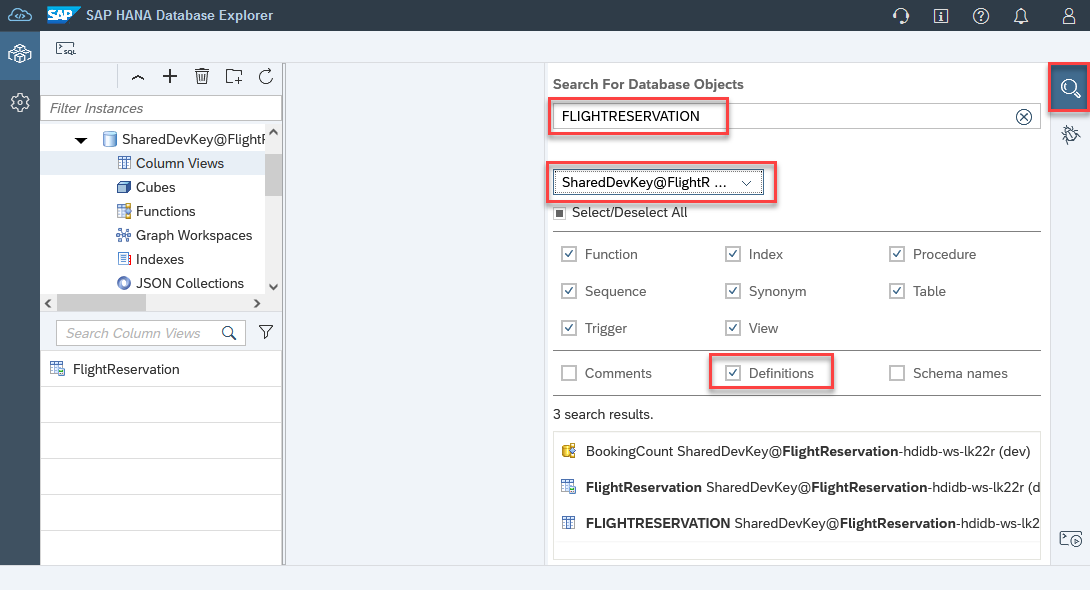
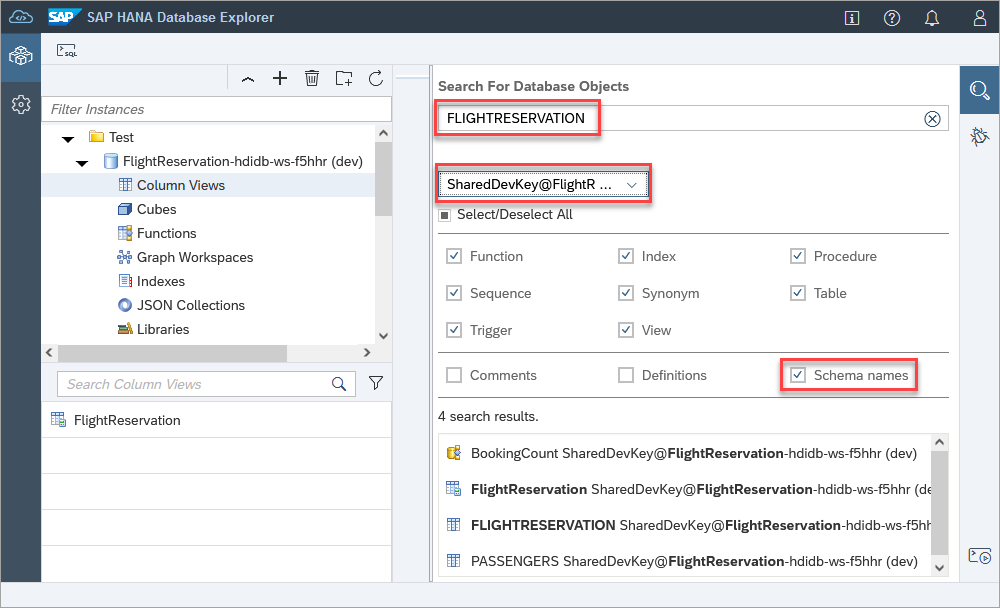
further review udpates

diff --git a/exercises/database_explorer/ex3/README.md b/exercises/database_explorer/ex3/README.md
@@ -1,26 +1,26 @@
 # Exercise 3 - Using the SQL Console
-In this exercise, we will explore some of the functionality in the SAP HANA database explorer's SQL Console. Please repeat the steps shown below.
+In this exercise, we will explore some of the functionality in the SAP HANA database explorer's SQL console. Please repeat the steps shown below.
 
 ## Exercise 3.1 Open a SQL Console
 
-1. A SQL Console can be opened by the context menu of a connection or after selecting a connection and clicking on the SQL Console toolbar icon.  
+1. A SQL console can be opened by the context menu of an instance or after selecting an instance and clicking on the SQL console toolbar icon.  
 
     ![](images/OpenSQLConsole.png)
 
-    Execute the following SQL after pasting it into a newly opened SQL Console that is connected to the FlightReservation HDI container and press the **Run** button.
+    Execute the following SQL after pasting it into a newly opened SQL console that is connected to the FlightReservation HDI container and press the **Run** button.
 
     ```SQL
     SELECT CURRENT_USER, CURRENT_SCHEMA FROM DUMMY;
     SELECT * FROM PUBLIC.M_CONNECTIONS WHERE CONNECTION_ID = CURRENT_CONNECTION;
     ```
 
-    Multiple SQL Console tabs can be opened, or the connection that the SQL Console is attached to can be changed if needed.
+    Multiple SQL console tabs can be opened, or the instance that the SQL console is attached to can be changed if needed.
 
     ![](images/ChangeConnection.png)
 
 ## Exercise 3.2 Autocompletion
 
-1. The SQL Console can autocomplete statements.  Enter the statement below into the SQL Console, position the cursor on the **C** and press **Ctrl + space**.  Select **COUNTRY** to complete the SQL query.
+1. The SQL console can autocomplete statements.  Enter the statement below into the SQL console, position the cursor on the **C** and press **Ctrl + space**.  Select **COUNTRY** to complete the SQL query.
 
     ![](images/AutoComplete.png)
 
@@ -47,7 +47,7 @@ In this exercise, we will explore some of the functionality in the SAP HANA data
 
 ## Exercise 3.4 Statement Help Panel
 
-1. The SQL Console has an optional statement help panel that shows additional details for a SQL statement that is selected by the input indicator.  Enter the statement below into the SQL Console and show the Statement Help panel. 
+1. The SQL console has an optional statement help panel that shows additional details for a SQL statement that is selected by the input indicator.  Enter the statement below into the SQL console and show the Statement Help panel. 
 
     ![](images/StatementHelpPanel.png)
     
@@ -79,7 +79,7 @@ In this exercise, we will explore some of the functionality in the SAP HANA data
 
 ## Exercise 3.7 SQL Console Preferences
 
-1. Examine the SQL Console preferences.  Navigate to the database explorer preferences icon on the left of your screen and select **SQL Console**. Examine the available settings.  
+1. Examine the SQL console preferences.  Navigate to the database explorer preferences icon on the left of your screen and select **SQL Console**. Examine the available settings.  
 
     A few notable settings are:
     * Byte limit for the size of a returned value
@@ -89,7 +89,7 @@ In this exercise, we will explore some of the functionality in the SAP HANA data
    
     ![](images/DBX_Settings.png)
 
-    >If changes are made to this screen, the Save button must be pressed.
+    >If changes are made to this screen, the Save button must be pressed for the changes to be set.
 
  
  2. An example of a query that returns more than 1000 rows is shown below.  The setting Max number of rows to display could be updated to display the full result.
@@ -128,11 +128,11 @@ In this exercise, we will explore some of the functionality in the SAP HANA data
 
 ## Exercise 3.9 Additional SQL Console Tab Features 
 
-1. A SQL Console tab or a sub tab such as Results, or Messages, can enter or exit full screen mode, by double tapping on its tab.  
+1. A SQL console tab or a sub tab such as Results, or Messages, can enter or exit full screen mode, by double tapping on its tab.  
 
     ![](images/FullScreen.png)
 
-2. A context menu is available on SQL Console tabs.  You may wish to provide a more descriptive tab name for a SQL Console.
+2. A context menu is available on SQL console tabs.  You may wish to provide a more descriptive tab name for a SQL console.
 
     ![](images/SQLConsoleContextMenu.png)
 
@@ -160,13 +160,13 @@ In this exercise, we will explore some of the functionality in the SAP HANA data
     
     >Optionally press the refresh button to update the status sooner.
 
-    >Notice that the original SQL Console and the one opened to view the results are both in a disconnected state and would need to be re-connected before executing another statement.
+    >Notice that the original SQL console and the one opened to view the results are both in a disconnected state and would need to be re-connected before executing another statement.
 
     ![](images/ViewBackgroundResults2.png)
 
 ## Exercise 3.11 Run on Multiple Databases
 
-1. SQL statements can also be executed against multiple databases.  Paste in the below SQL into the SQL Console and from the **Run** icon select **Run on Multiple Databases**. 
+1. SQL statements can also be executed against multiple databases.  Paste in the below SQL into the SQL console and from the **Run** icon select **Run on Multiple Databases**. 
 
     ```SQL
     SELECT CURRENT_USER FROM DUMMY;
@@ -204,10 +204,10 @@ In this exercise, we will explore some of the functionality in the SAP HANA data
 
 ## Exercise 3.13 Data Viewers
 
-1. The SQL Console has built in viewers for data of different formats such as HTML, XML, JSON and spatial.  Execute the below SQL, select a value from the results tab and choose **View data**. 
+1. The SQL console has built in viewers for data of different formats such as HTML, XML, JSON and spatial.  Execute the below SQL, select a value from the results tab and choose **View data**. 
 
     ```SQL
-    SELECT'{ "name":"John", "age":30, "cars": { "car1":"Ford", car2":"BMW", car3":"Fiat" }}'
+    SELECT'{ "name":"John", "age":30, "cars": { "car1":"Ford", "car2":"BMW", "car3":"Fiat" }}'
         AS JSON_EXAMPLE FROM DUMMY;
     
     SELECT '<?xml version="1.0" encoding="UTF-8"?>

diff --git a/exercises/multi-environment/ex1/README.md b/exercises/multi-environment/ex1/README.md
@@ -1,6 +1,6 @@
 # Appendix 1 - Multi-Environment SAP HANA Cloud Tools
 
-This appendix will introduce the multi-environment tools which are available as of QRC 3 in the SAP BTP free tier and production environments but not in trial.  Until now, the tooling (SAP HANA cockpit, SAP HANA database explorer, and SAP HANA Cloud Central) have been accessing SAP HANA Cloud through Cloud Foundry.  The SAP BTP provides support for multiple environments such as Cloud Foundry and Kyma.  With the multi-environment tooling, it is no longer necessary to have a Cloud Foundry environment.  This is explained in more detail at [SAP HANA Cloud goes "multi-environment": Part 1- feature overview](https://blogs.sap.com/2022/09/21/sap-hana-cloud-goes-multi-environment-part-1-feature-overview/).
+This appendix will introduce the multi-environment tools which are available as of QRC 3 in the SAP BTP free tier and production environments but not in trial.  Until now, the tooling (SAP HANA cockpit, SAP HANA database explorer, and SAP HANA Cloud Central) have been accessing SAP HANA Cloud through Cloud Foundry.  The SAP BTP provides support for multiple environments such as Cloud Foundry and Kyma.  With the multi-environment tooling, it is no longer necessary to have a Cloud Foundry environment.  This is explained in more detail at [SAP HANA Cloud goes "multi-environment": Part 1- feature overview](https://blogs.sap.com/2022/09/21/sap-hana-cloud-goes-multi-environment-part-1-feature-overview/).  
 
 ## Exercise 1.1 Introducing and Setting up the Multi-Environment Tooling
 
@@ -20,7 +20,7 @@ This appendix will introduce the multi-environment tools which are available as 
 
     ![](images/Tools-Plan.png)
 
-    *Select the tools plan and press create.*
+    *Select the tools plan and press Create.*
 
     ![](images/Role-Collection.png)
 
@@ -34,28 +34,35 @@ This appendix will introduce the multi-environment tools which are available as 
 
     ![](images/Multi-Environemnt-HCC.png)
 
-    *Multi-Environment SAP HANA Cloud Central.*
+    *Multi-Environment edition of SAP HANA Cloud Central.*
 
     ![](images/Cloud-Foundry-HCC.png)
 
-    *Cloud Foundry SAP HANA Cloud Central.*
+    *Previous edition of SAP HANA Cloud Central.*
 
     Some of the differences include:
 
-    * The Cloud Foundry tooling is accessed from the Cloud Foundry space level under the SAP HANA Cloud tab
+    * The previous edition of the tooling is accessed from the Cloud Foundry space level under the SAP HANA Cloud tab
     * The multi-environment tooling is accessed from the SAP BTP sub-account page, under the SAP HANA Cloud subscription
     * The URL used to access the tools is different
-    * The multi-environment version does not have the Cloud Foundry organization and space drop downs
+    * The multi-environment edition does not have the Cloud Foundry organization and space drop downs
     * The multi-environment SAP HANA Cloud Central includes a link that when clicked, displays the subaccount roles assigned to the current user
-    * The Cloud Foundry SAP HANA Cloud Central includes a link that when clicked, displays the Cloud Foundry space roles assigned to the current user
+    * The previous edition of SAP HANA Cloud Central includes a link that when clicked, displays the Cloud Foundry space roles assigned to the current user
     * The multi-environment tooling lists SAP HANA Cloud instances created with either set of the tooling
-    * The Cloud Foundry tooling does not list the SAP HANA Cloud instances created with the multi-environment tooling
-    * Within the SAP HANA database explorer, the Add Instance dialog does not show the Cockpit or
-    * The instance mapping in the multi-environment version provides instance mapping via the action menu item Manage Configuration.  This is demonstrated in the exercise below.
+    * The previous edition of SAP HANA Cloud Central does not list the SAP HANA Cloud instances created with the multi-environment tooling
+    * The multi-environment tooling does not include HDI Containers as an instance type in the Add Instance dialog
+    * The instance mapping in the multi-environment edition provides instance mapping via the action menu item Manage Configuration.  This is demonstrated in the exercise below.
 
 ## Exercise 1.2 Instance Mapping
 
-If you are using the SAP Business Application Studio to deploy native SAP HANA artifacts into an HDI container and have created the SAP HANA instance using the multi-environment tooling, a mapping will need to be created to map the SAP HANA Cloud instance into an existing Cloud Foundry organization and space.
+If you are using the SAP Business Application Studio to deploy native SAP HANA artifacts into an HDI container and have created the SAP HANA instance using the multi-environment tooling, a mapping will need to be created to map the SAP HANA Cloud instance into an existing Cloud Foundry organization and space.  If this is not added, an error such the below will occur during initial project creation.
+   
+    Generating SAP HANA Database Project
+    Creating the Cloud Foundry service instance "FlightReservation-hdidb-ws-f5hhr"
+    An error occurred while creating the service: Error: Failed to create the service "FlightReservation2-hdidb-ws-f5hhr"; 
+    Service broker error: Service broker hana-broker failed with: Can not create service instance 'FlightReservation-hdidb-ws-f5hhr': 
+    There is no database available. Ensure that you have a database available in space 'dev' within organization 'DansCFOrg'.
+
 
 1. Determine the Cloud Foundry Organization ID.
 
@@ -79,7 +86,7 @@ If you are using the SAP Business Application Studio to deploy native SAP HANA a
 
 ## Summary
 
-You now have an overview of the new multi-environment tooling and how it differs from the Cloud Foundry tooling.
+You now have an overview of the new multi-environment tooling and how it differs from the previous edition of the tooling.
 
 Back to - [DA261 - SAP HANA Cloud Database Administration and Development](../../../README.md)
 

diff --git a/exercises/database_explorer/ex1/README.md b/exercises/database_explorer/ex1/README.md
@@ -4,7 +4,7 @@ In addition to browsing schema objects and executing SQL, the SAP HANA database 
 
 ![](images/Help.png)
 
-In this exercise, we will launch an instance of the SAP HANA database explorer and walk through some of the features relating to HANA database connections.  In later exercises, the Catalog Browser, SQL Console, and the database explorer extension will be covered. 
+In this exercise, we will launch an instance of the SAP HANA database explorer and walk through some of the features relating to HANA database connections.  In later exercises, the Catalog Browser, SQL console, and the database explorer extension will be covered. 
 
 ## Exercise 1.1 Open the SAP HANA Database Explorer
 
@@ -30,7 +30,7 @@ In this exercise, we will launch an instance of the SAP HANA database explorer a
 
     *In this example, the instance is the QRC 3 2022 release.*
 
-## Exercise 1.3 Search for a View using a Schema Filter
+## Exercise 1.3 Search For a View Using a Schema Filter
 
 1. Click the arrow next to the database icon to expand the object hierarchy for the instance. You will see that it holds catalog objects and database diagnostic files (trace files, or log files), and with the appropriate permissions, a list of HDI containers contained in the instance.  Expand **Catalog** then select **Views**.
 

diff --git a/exercises/database_explorer/ex2/README.md b/exercises/database_explorer/ex2/README.md
@@ -1,6 +1,6 @@
 # Exercise 2 - Catalog Browser and Object Search
 
-In this exercise, we will explore some of the functionality that the catalog browser and object search provide when working with database objects.  Some of this functionality was previously introduced.
+In this exercise, we will explore some of the functionality that the catalog browser and object search provide when working with database objects.
 
 ## Exercise 2.1 Viewing a List of Database Objects
 
@@ -52,7 +52,7 @@ In this exercise, we will explore some of the functionality that the catalog bro
 
 ## Exercise 2.5 Using Object Search
 
-1. Database objects can also be found using **Object Search**.  The search shown below looks for any objects that use FLIGHTRESERVATION in their definitions in the HDI connection. 
+1. Database objects can also be found using **Object Search**.  The search shown below looks for any objects that use FLIGHTRESERVATION in their schema name in the HDI container. 
 
     ![](images/ObjectSearch.png)
 

diff --git a/exercises/business_app_studio/ex4/README.md b/exercises/business_app_studio/ex4/README.md
@@ -68,7 +68,7 @@ Alternatively, database objects can also be created directly in the database usi
 
 ## Exercise 2.3 Opening a SQL Console with Different Users
 
-1.  In the SAP HANA database explorer, open a SQL Console connected to the HDI container.  Execute the following SQL.
+1.  In the SAP HANA database explorer, open a SQL console connected to the HDI container.  Execute the following SQL.
 
     ```SQL
     SELECT CURRENT_USER, CURRENT_SCHEMA FROM DUMMY;

diff --git a/exercises/database_explorer/ex4/README.md b/exercises/database_explorer/ex4/README.md
@@ -29,7 +29,7 @@
 
 ## Exercise 1.3 SQL Console
 
-1. Select the HDI Container and open a SQL Console.  Execute the below SQL.
+1. Select the HDI Container and open a SQL console.  Execute the below SQL.
 
     ![](images/sql-console.png)
 
